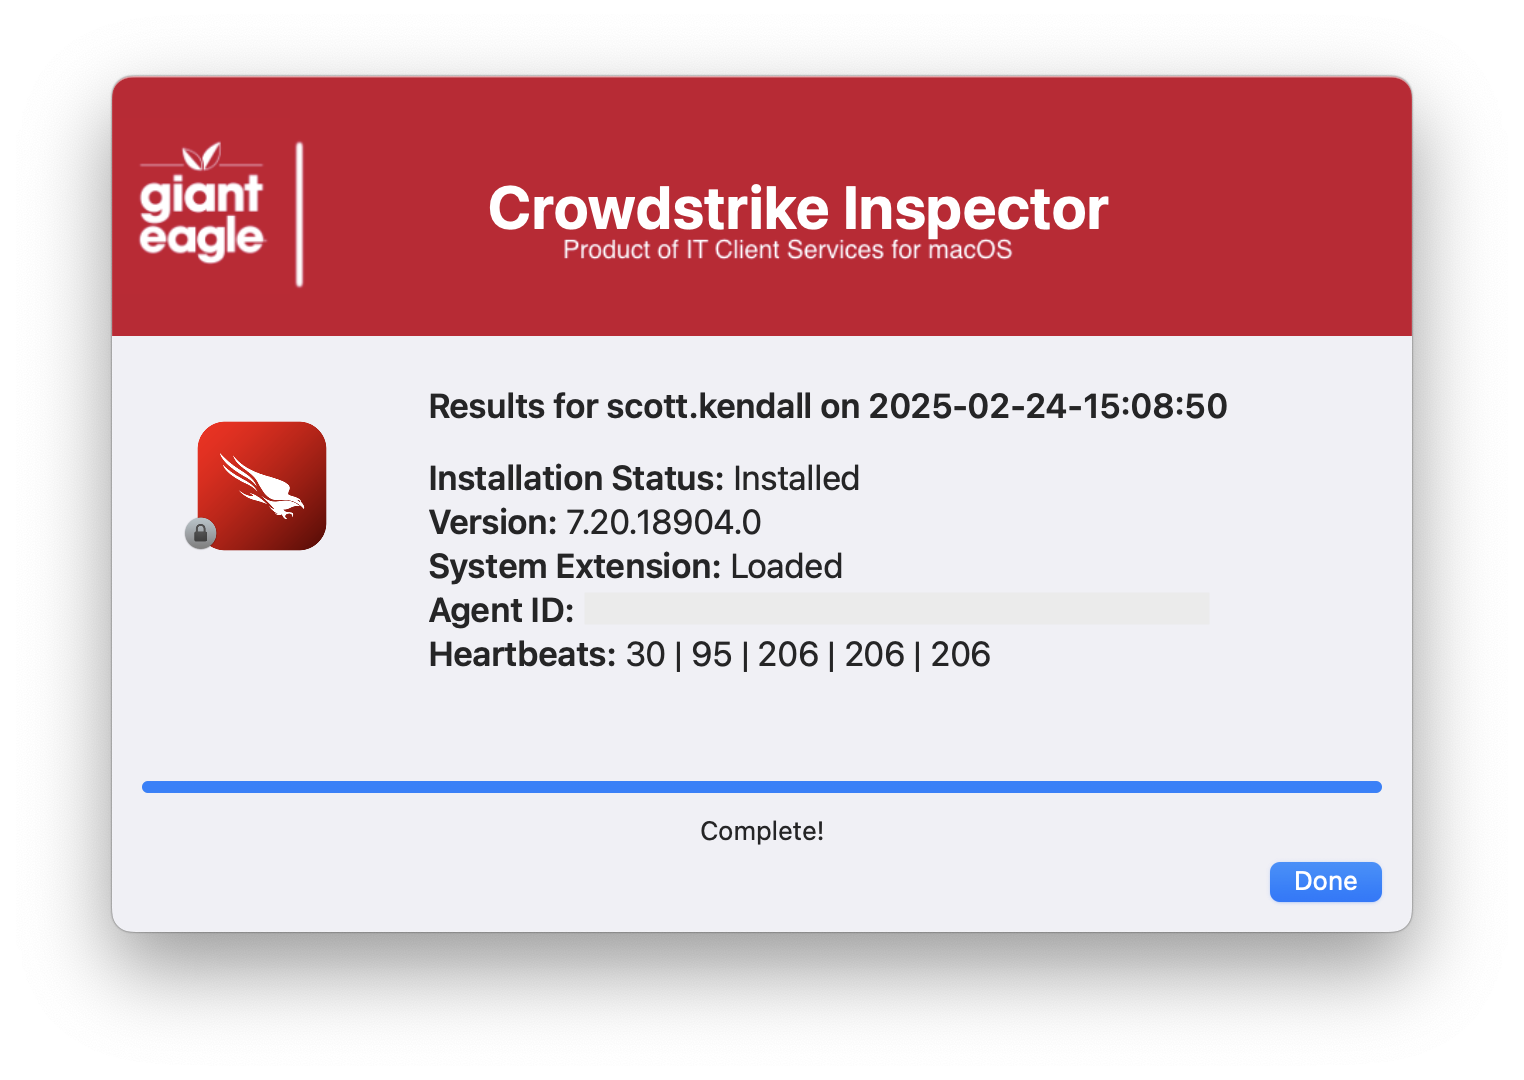
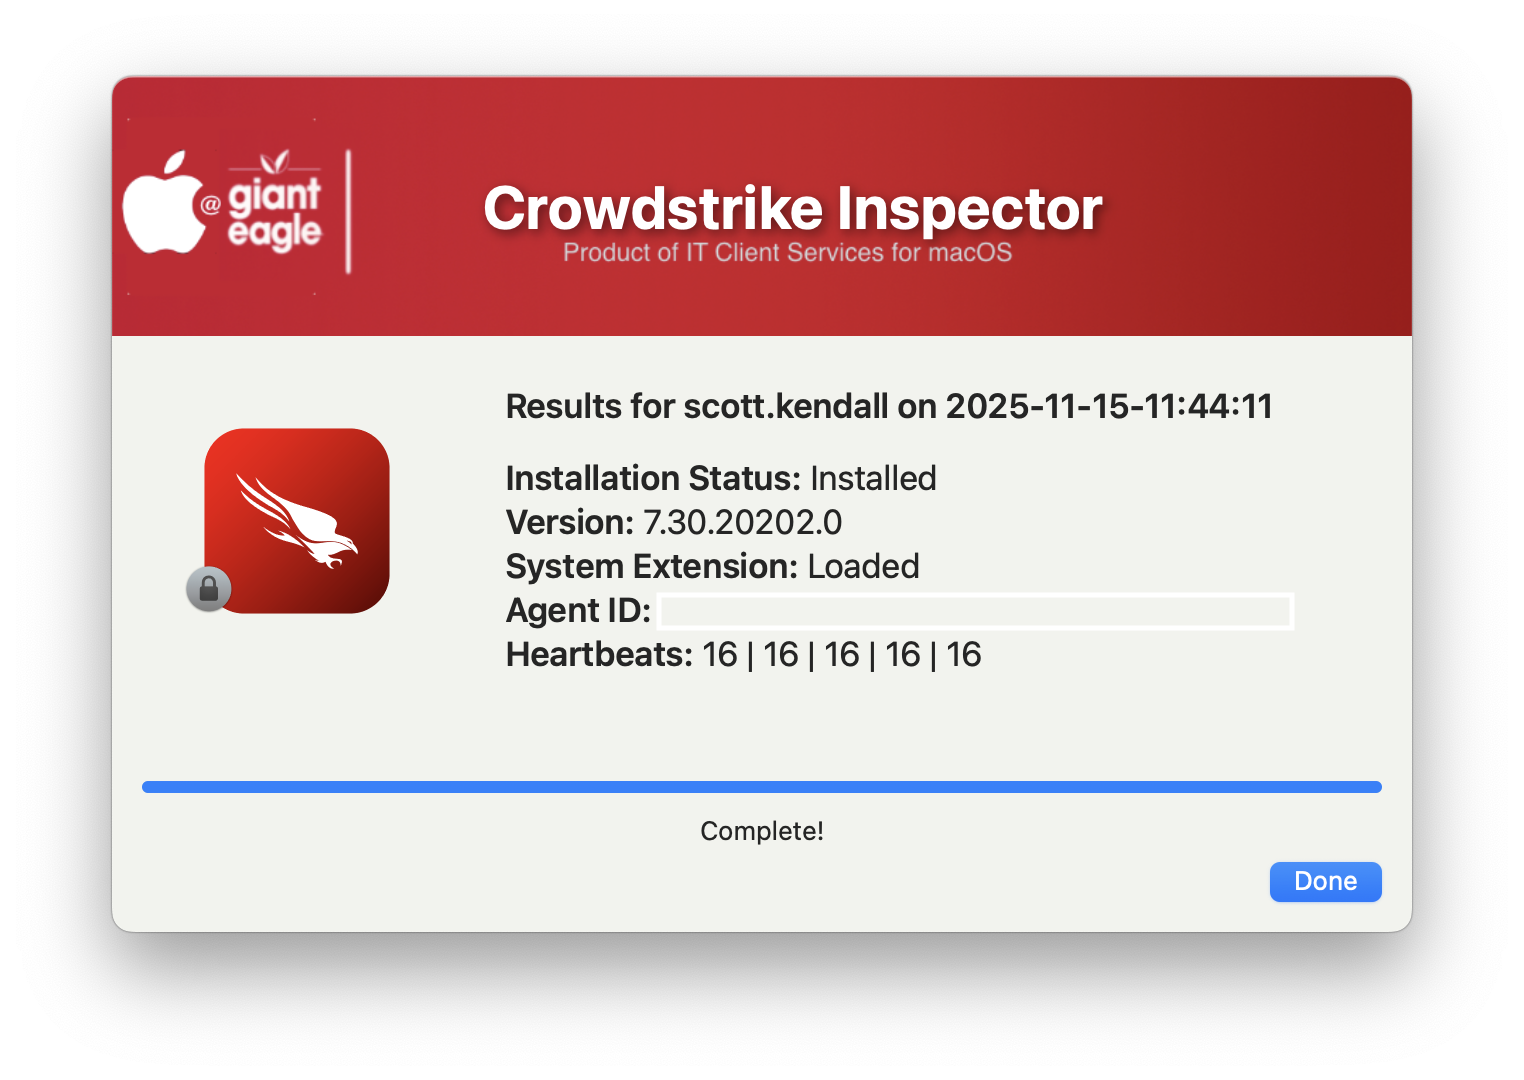
Display information about Crowdstrike sensor

diff --git a/InspectCrowdstrike/README.md b/InspectCrowdstrike/README.md
@@ -3,8 +3,12 @@
 Simple GUI interface showing Falcon sensor info
 based heavily off of Dan Snelson script: (https://snelson.us/2023/04/crowdstrike-falcon-inspector-0-0-2-with-swiftdialog/)
 
-![](/InspectCrowdstrike/InspectCrowdstrike.png)
+![](./InspectCrowdstrike.png)
 
-##### _v1.0 - Initial Commit_
-##### _v1.1 - Major code cleanup & documentation / Structred code to be more inline / consistent across all apps_
-
+#### 1.0 - Initial code
+#### 1.1 - Code cleanup to be more consistent with all apps
+#### 1.2 - Code cleanup
+####       Added feature to read in defaults file
+####       removed unnecessary variables.
+####       Bumped min version of SD to 2.5.0
+####       Fixed typos
